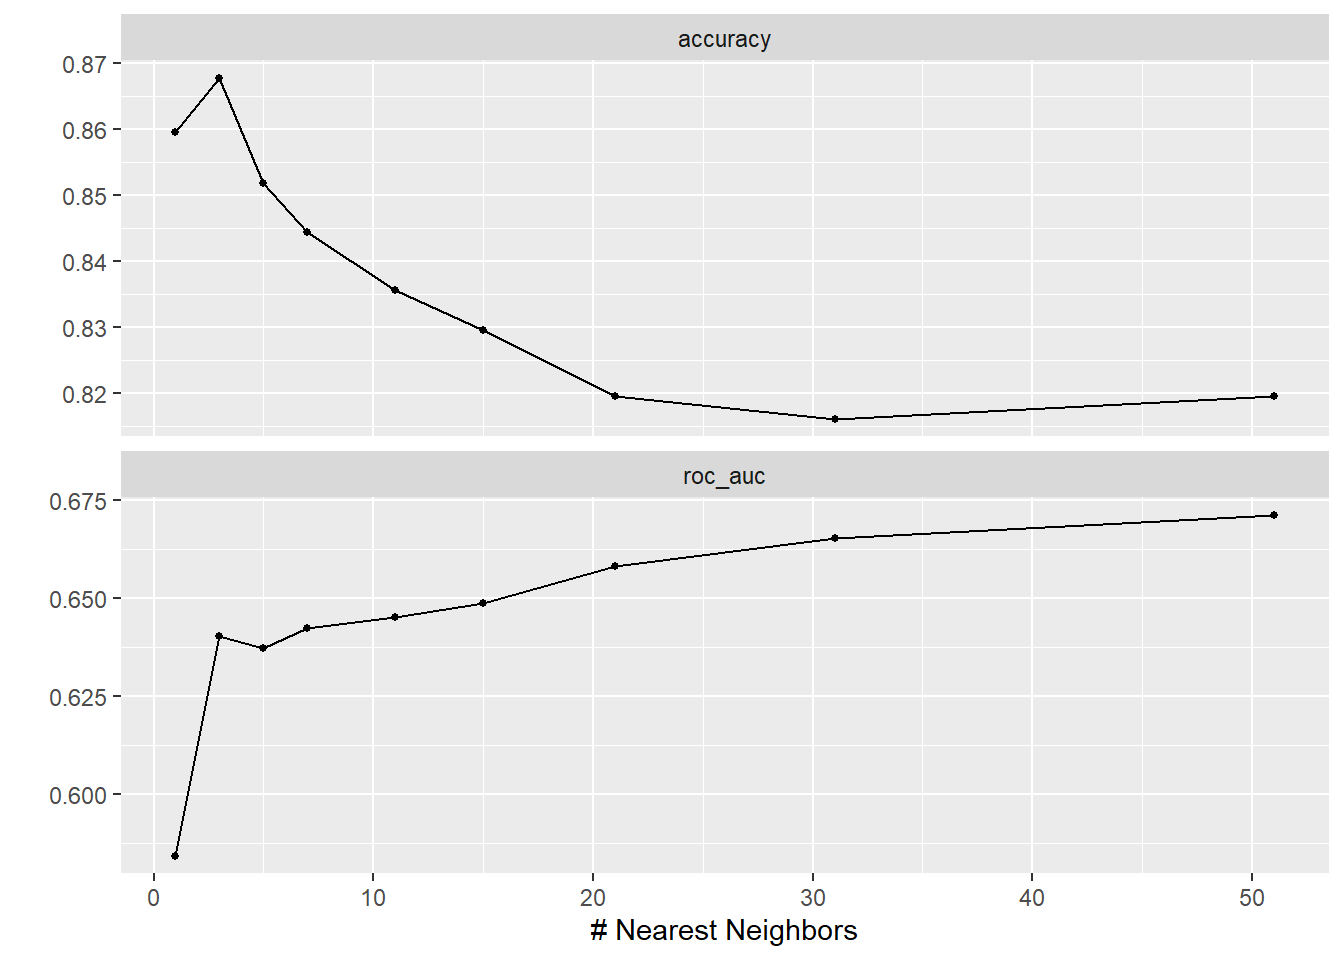
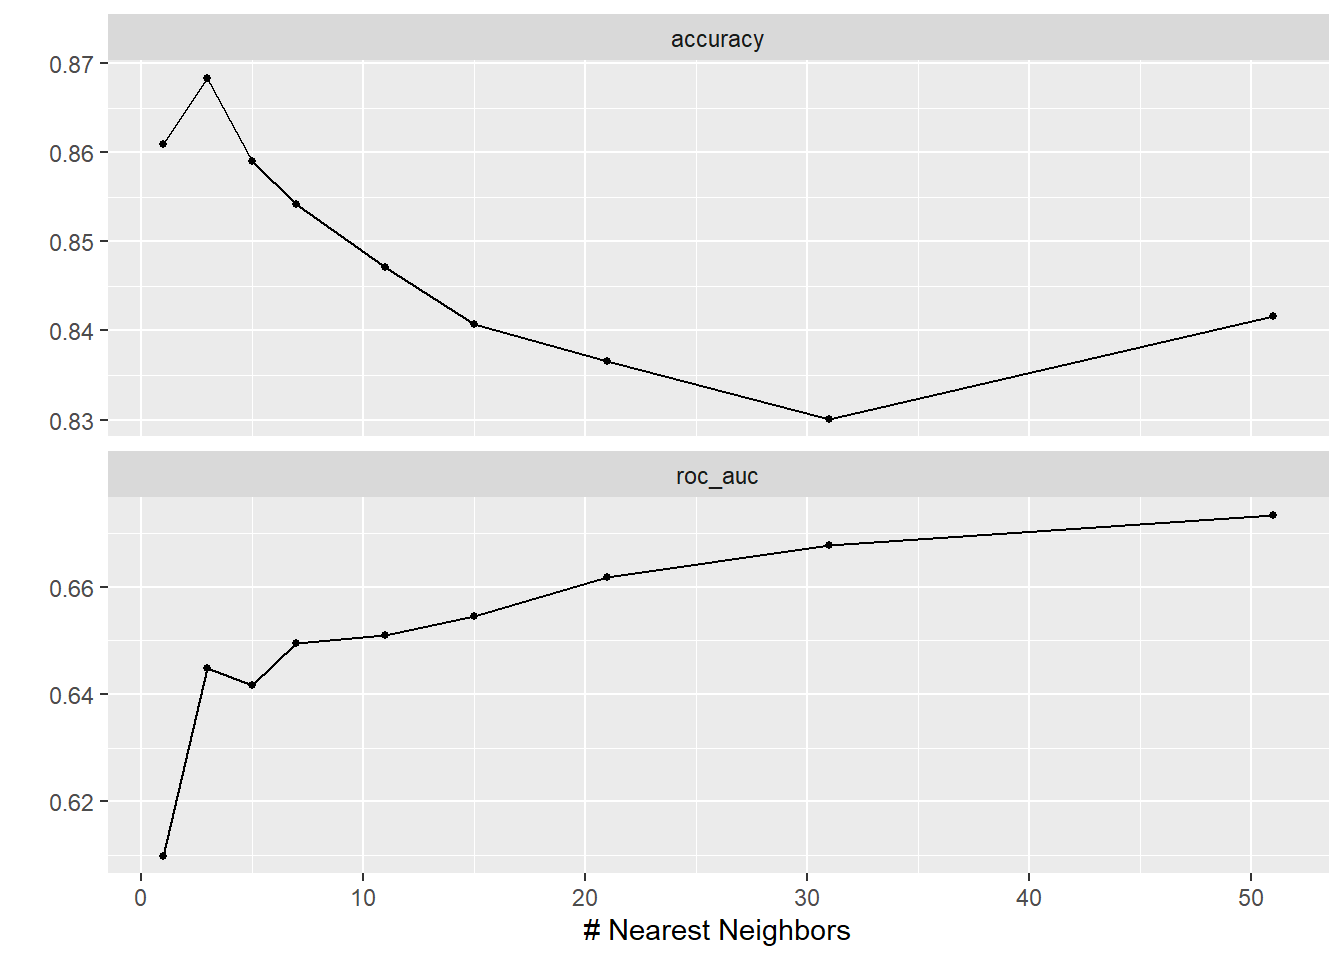
Update docs/

diff --git a/docs/models/trees.html b/docs/models/trees.html
@@ -496,11 +496,11 @@ Computational engine: rpart </code></pre>
 <pre><code># A tibble: 5 × 9
   cost_complexity tree_depth min_n .metric .estimator  mean     n std_err
             &lt;dbl&gt;      &lt;int&gt; &lt;int&gt; &lt;chr&gt;   &lt;chr&gt;      &lt;dbl&gt; &lt;int&gt;   &lt;dbl&gt;
-1      0.00000322          9    83 roc_auc binary     0.663    10  0.0136
-2      0.0000602           8    98 roc_auc binary     0.663    10  0.0141
-3      0.00000218          7   122 roc_auc binary     0.663    10  0.0130
-4      0.00000579          9   125 roc_auc binary     0.663    10  0.0135
-5      0.000001            7    81 roc_auc binary     0.662    10  0.0147
+1      0.00000218          7   122 roc_auc binary     0.670    10 0.00693
+2      0.000515            5     5 roc_auc binary     0.668    10 0.00865
+3      0.0000104           5   145 roc_auc binary     0.668    10 0.00805
+4      0.00000579          9   125 roc_auc binary     0.668    10 0.00893
+5      0.00245             5   108 roc_auc binary     0.668    10 0.00811
 # ℹ 1 more variable: .config &lt;chr&gt;</code></pre>
 </div>
 </div>
@@ -530,7 +530,7 @@ Computational engine: rpart </code></pre>
 <pre><code># A tibble: 1 × 4
   cost_complexity tree_depth min_n .config         
             &lt;dbl&gt;      &lt;int&gt; &lt;int&gt; &lt;chr&gt;           
-1      0.00000322          9    83 pre0_mod07_post0</code></pre>
+1      0.00000218          7   122 pre0_mod05_post0</code></pre>
 </div>
 </div>
 <p>But we don’t commit yet: we want to check how this performs first.</p>
@@ -548,9 +548,9 @@ Computational engine: rpart </code></pre>
 <pre><code># A tibble: 3 × 6
   .metric     .estimator  mean     n std_err .config        
   &lt;chr&gt;       &lt;chr&gt;      &lt;dbl&gt; &lt;int&gt;   &lt;dbl&gt; &lt;chr&gt;          
-1 accuracy    binary     0.708    10 0.00676 pre0_mod0_post0
-2 brier_class binary     0.210    10 0.00191 pre0_mod0_post0
-3 roc_auc     binary     0.663    10 0.0136  pre0_mod0_post0</code></pre>
+1 accuracy    binary     0.701    10 0.00848 pre0_mod0_post0
+2 brier_class binary     0.213    10 0.00118 pre0_mod0_post0
+3 roc_auc     binary     0.670    10 0.00693 pre0_mod0_post0</code></pre>
 </div>
 </div>
 <p>Looks good, time to lock it in.</p>
@@ -574,9 +574,9 @@ Model: decision_tree()
 Decision Tree Model Specification (classification)
 
 Main Arguments:
-  cost_complexity = 3.2245905452964e-06
-  tree_depth = 9
-  min_n = 83
+  cost_complexity = 2.18264472839749e-06
+  tree_depth = 7
+  min_n = 122
 
 Engine-Specific Arguments:
   parms = list(prior = c(0.5, 0.5))
@@ -616,11 +616,11 @@ Computational engine: rpart </code></pre>
 <pre><code># A tibble: 5 × 4
   .metric     .estimator .estimate .config        
   &lt;chr&gt;       &lt;chr&gt;          &lt;dbl&gt; &lt;chr&gt;          
-1 accuracy    binary        0.693  pre0_mod0_post0
-2 kap         binary        0.0719 pre0_mod0_post0
-3 sensitivity binary        0.698  pre0_mod0_post0
-4 specificity binary        0.590  pre0_mod0_post0
-5 roc_auc     binary        0.671  pre0_mod0_post0</code></pre>
+1 accuracy    binary        0.689  pre0_mod0_post0
+2 kap         binary        0.0744 pre0_mod0_post0
+3 sensitivity binary        0.693  pre0_mod0_post0
+4 specificity binary        0.608  pre0_mod0_post0
+5 roc_auc     binary        0.691  pre0_mod0_post0</code></pre>
 </div>
 </div>
 <p>Comparing these to the CV metrics from the sanity-check section, we see they are in about the same ballpark. Thus, the model generalizes.</p>
@@ -638,13 +638,13 @@ Computational engine: rpart </code></pre>
 <pre><code># A tibble: 4,899 × 4
    WeaponCarryingSchool .pred_class .pred_1 .pred_0
    &lt;fct&gt;                &lt;fct&gt;         &lt;dbl&gt;   &lt;dbl&gt;
- 1 0                    0             0.339   0.661
- 2 0                    1             0.530   0.470
- 3 0                    0             0.339   0.661
- 4 0                    0             0.339   0.661
- 5 0                    0             0.339   0.661
+ 1 0                    0             0.341   0.659
+ 2 0                    0             0.470   0.530
+ 3 0                    0             0.341   0.659
+ 4 0                    0             0.341   0.659
+ 5 0                    0             0.341   0.659
  6 0                    1             0.521   0.479
- 7 0                    0             0.394   0.606
+ 7 0                    1             0.538   0.462
  8 1                    1             0.893   0.107
  9 0                    1             0.734   0.266
 10 0                    1             0.521   0.479
@@ -691,9 +691,6 @@ Computational engine: rpart </code></pre>
 <div class="code-copy-outer-scaffold"><div class="sourceCode cell-code" id="cb45"><pre class="sourceCode r code-with-copy"><code class="sourceCode r"><span id="cb45-1"><a href="#cb45-1" aria-hidden="true" tabindex="-1"></a>cart_last_fit <span class="sc">|&gt;</span></span>
 <span id="cb45-2"><a href="#cb45-2" aria-hidden="true" tabindex="-1"></a>    <span class="fu">extract_fit_engine</span>() <span class="sc">|&gt;</span></span>
 <span id="cb45-3"><a href="#cb45-3" aria-hidden="true" tabindex="-1"></a>    <span class="fu">rpart.plot</span>(<span class="at">roundint =</span> <span class="cn">FALSE</span>, <span class="at">type =</span> <span class="dv">4</span>, <span class="at">extra =</span> <span class="dv">104</span>)</span></code></pre></div><button title="Copy to Clipboard" class="code-copy-button"><i class="bi"></i></button></div>
-<div class="cell-output cell-output-stderr">
-<pre><code>Warning: labs do not fit even at cex 0.15, there may be some overplotting</code></pre>
-</div>
 <div class="cell-output-display">
 <div>
 <figure class="figure">
@@ -707,9 +704,9 @@ Computational engine: rpart </code></pre>
 <h2 class="anchored" data-anchor-id="variable-importance-with-vip">Variable importance with <code>vip</code></h2>
 <p>Each bar in the variable importance plot (VIP) indicates how much that predictor reduced impurity across all splits. Predictors not shown were never useful enough to make the tree. This makes for a free feature ranking for your manuscript.</p>
 <div class="cell">
-<div class="code-copy-outer-scaffold"><div class="sourceCode cell-code" id="cb47"><pre class="sourceCode r code-with-copy"><code class="sourceCode r"><span id="cb47-1"><a href="#cb47-1" aria-hidden="true" tabindex="-1"></a>cart_last_fit <span class="sc">|&gt;</span></span>
-<span id="cb47-2"><a href="#cb47-2" aria-hidden="true" tabindex="-1"></a>    <span class="fu">extract_fit_parsnip</span>() <span class="sc">|&gt;</span></span>
-<span id="cb47-3"><a href="#cb47-3" aria-hidden="true" tabindex="-1"></a>    <span class="fu">vip</span>(<span class="at">num_features =</span> <span class="dv">15</span>)</span></code></pre></div><button title="Copy to Clipboard" class="code-copy-button"><i class="bi"></i></button></div>
+<div class="code-copy-outer-scaffold"><div class="sourceCode cell-code" id="cb46"><pre class="sourceCode r code-with-copy"><code class="sourceCode r"><span id="cb46-1"><a href="#cb46-1" aria-hidden="true" tabindex="-1"></a>cart_last_fit <span class="sc">|&gt;</span></span>
+<span id="cb46-2"><a href="#cb46-2" aria-hidden="true" tabindex="-1"></a>    <span class="fu">extract_fit_parsnip</span>() <span class="sc">|&gt;</span></span>
+<span id="cb46-3"><a href="#cb46-3" aria-hidden="true" tabindex="-1"></a>    <span class="fu">vip</span>(<span class="at">num_features =</span> <span class="dv">15</span>)</span></code></pre></div><button title="Copy to Clipboard" class="code-copy-button"><i class="bi"></i></button></div>
 <div class="cell-output-display">
 <div>
 <figure class="figure">

diff --git a/docs/models/knn.html b/docs/models/knn.html
@@ -468,11 +468,11 @@ Computational engine: kknn </code></pre>
 <pre><code># A tibble: 5 × 7
   neighbors .metric .estimator  mean     n std_err .config        
       &lt;dbl&gt; &lt;chr&gt;   &lt;chr&gt;      &lt;dbl&gt; &lt;int&gt;   &lt;dbl&gt; &lt;chr&gt;          
-1        51 roc_auc binary     0.671     5 0.00866 pre0_mod9_post0
-2        31 roc_auc binary     0.665     5 0.00729 pre0_mod8_post0
-3        21 roc_auc binary     0.658     5 0.00806 pre0_mod7_post0
-4        15 roc_auc binary     0.649     5 0.00736 pre0_mod6_post0
-5        11 roc_auc binary     0.645     5 0.00830 pre0_mod5_post0</code></pre>
+1        51 roc_auc binary     0.673     5 0.00869 pre0_mod9_post0
+2        31 roc_auc binary     0.668     5 0.00837 pre0_mod8_post0
+3        21 roc_auc binary     0.662     5 0.00908 pre0_mod7_post0
+4        15 roc_auc binary     0.655     5 0.00938 pre0_mod6_post0
+5        11 roc_auc binary     0.651     5 0.00794 pre0_mod5_post0</code></pre>
 </div>
 </div>
 </section>
@@ -517,9 +517,9 @@ Computational engine: kknn </code></pre>
 <pre><code># A tibble: 3 × 6
   .metric     .estimator  mean     n std_err .config        
   &lt;chr&gt;       &lt;chr&gt;      &lt;dbl&gt; &lt;int&gt;   &lt;dbl&gt; &lt;chr&gt;          
-1 accuracy    binary     0.820     5 0.00563 pre0_mod0_post0
-2 brier_class binary     0.117     5 0.00189 pre0_mod0_post0
-3 roc_auc     binary     0.671     5 0.00866 pre0_mod0_post0</code></pre>
+1 accuracy    binary     0.842     5 0.00759 pre0_mod0_post0
+2 brier_class binary     0.111     5 0.00242 pre0_mod0_post0
+3 roc_auc     binary     0.673     5 0.00869 pre0_mod0_post0</code></pre>
 </div>
 </div>
 <p>This is an honest, CV-estimated performance for our single chosen <code>K</code>. Our metrics look good, so we’ll lock in and evaluate this <code>K</code> on our test set.</p>
@@ -584,11 +584,11 @@ Computational engine: kknn </code></pre>
 <pre><code># A tibble: 5 × 4
   .metric     .estimator .estimate .config        
   &lt;chr&gt;       &lt;chr&gt;          &lt;dbl&gt; &lt;chr&gt;          
-1 accuracy    binary         0.836 pre0_mod0_post0
-2 kap         binary         0.122 pre0_mod0_post0
-3 sensitivity binary         0.855 pre0_mod0_post0
-4 specificity binary         0.420 pre0_mod0_post0
-5 roc_auc     binary         0.709 pre0_mod0_post0</code></pre>
+1 accuracy    binary         0.837 pre0_mod0_post0
+2 kap         binary         0.124 pre0_mod0_post0
+3 sensitivity binary         0.856 pre0_mod0_post0
+4 specificity binary         0.425 pre0_mod0_post0
+5 roc_auc     binary         0.706 pre0_mod0_post0</code></pre>
 </div>
 </div>
 <p>These metrics are not too different from our CV sanity-check metrics, so we can say our KNN generalizes.</p>
@@ -607,15 +607,15 @@ Computational engine: kknn </code></pre>
    .pred_class .pred_0 .pred_1 id               WeaponCarryingSchool
    &lt;fct&gt;         &lt;dbl&gt;   &lt;dbl&gt; &lt;chr&gt;            &lt;fct&gt;               
  1 0             1     0       train/test split 0                   
- 2 0             0.619 0.381   train/test split 0                   
- 3 0             0.991 0.00858 train/test split 0                   
- 4 0             0.991 0.00858 train/test split 0                   
+ 2 0             0.671 0.329   train/test split 0                   
+ 3 0             0.996 0.00377 train/test split 0                   
+ 4 0             0.996 0.00377 train/test split 0                   
  5 0             1     0       train/test split 0                   
- 6 0             0.831 0.169   train/test split 0                   
- 7 0             0.768 0.232   train/test split 0                   
- 8 1             0.129 0.871   train/test split 1                   
- 9 1             0.105 0.895   train/test split 0                   
-10 1             0.482 0.518   train/test split 0                   
+ 6 0             0.860 0.140   train/test split 0                   
+ 7 0             0.648 0.352   train/test split 0                   
+ 8 1             0.205 0.795   train/test split 1                   
+ 9 1             0.279 0.721   train/test split 0                   
+10 0             0.587 0.413   train/test split 0                   
 # ℹ 4,889 more rows</code></pre>
 </div>
 </div>
@@ -667,10 +667,10 @@ Computational engine: kknn </code></pre>
 <pre><code># A tibble: 4 × 3
   .metric     .estimator .estimate
   &lt;chr&gt;       &lt;chr&gt;          &lt;dbl&gt;
-1 sensitivity binary         0.420
-2 specificity binary         0.855
-3 accuracy    binary         0.836
-4 kap         binary         0.122</code></pre>
+1 sensitivity binary         0.425
+2 specificity binary         0.856
+3 accuracy    binary         0.837
+4 kap         binary         0.124</code></pre>
 </div>
 </div>
 
